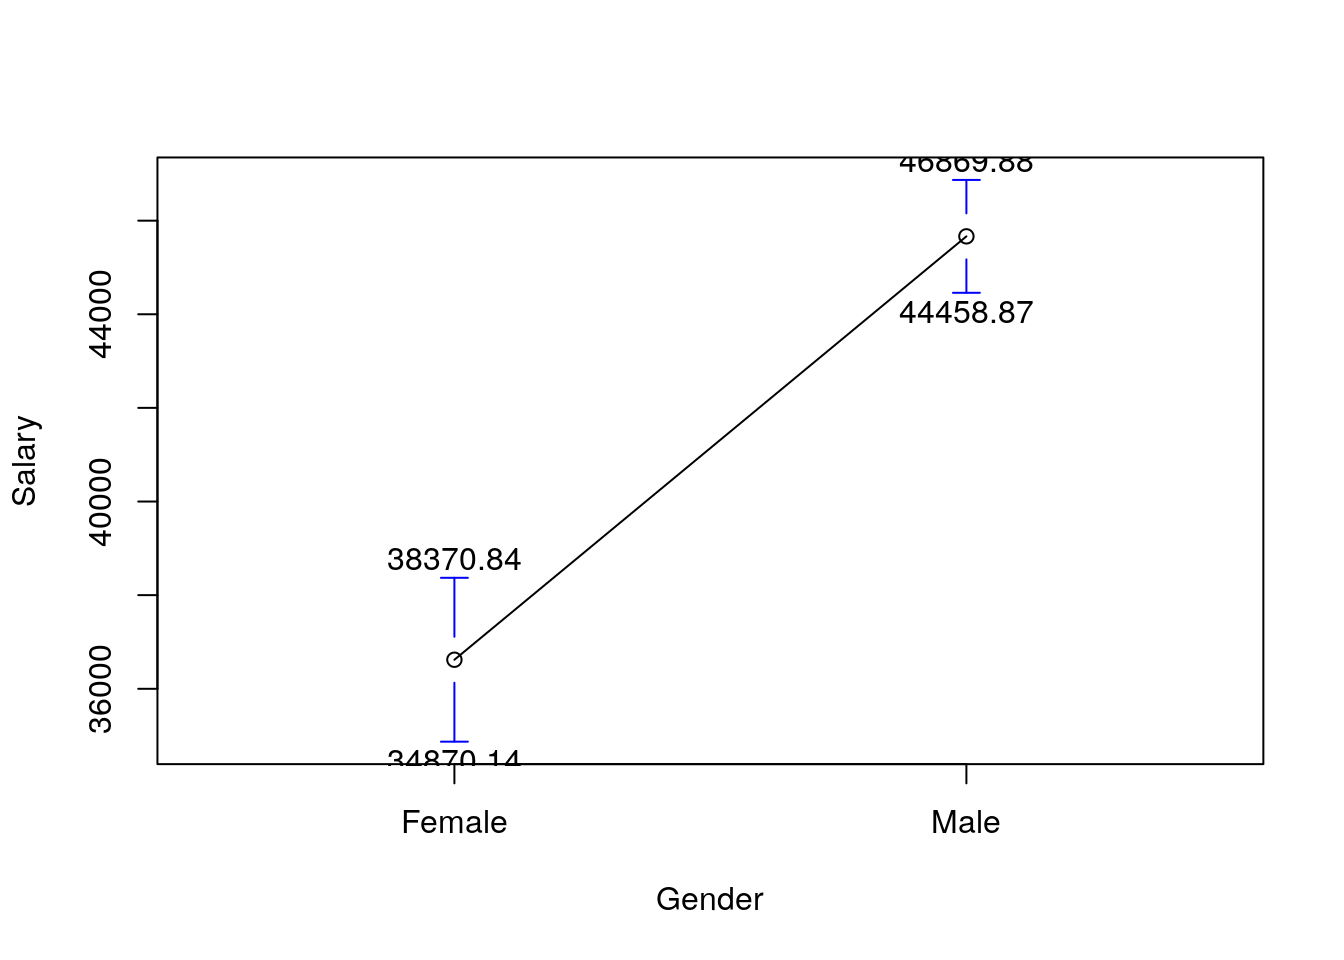
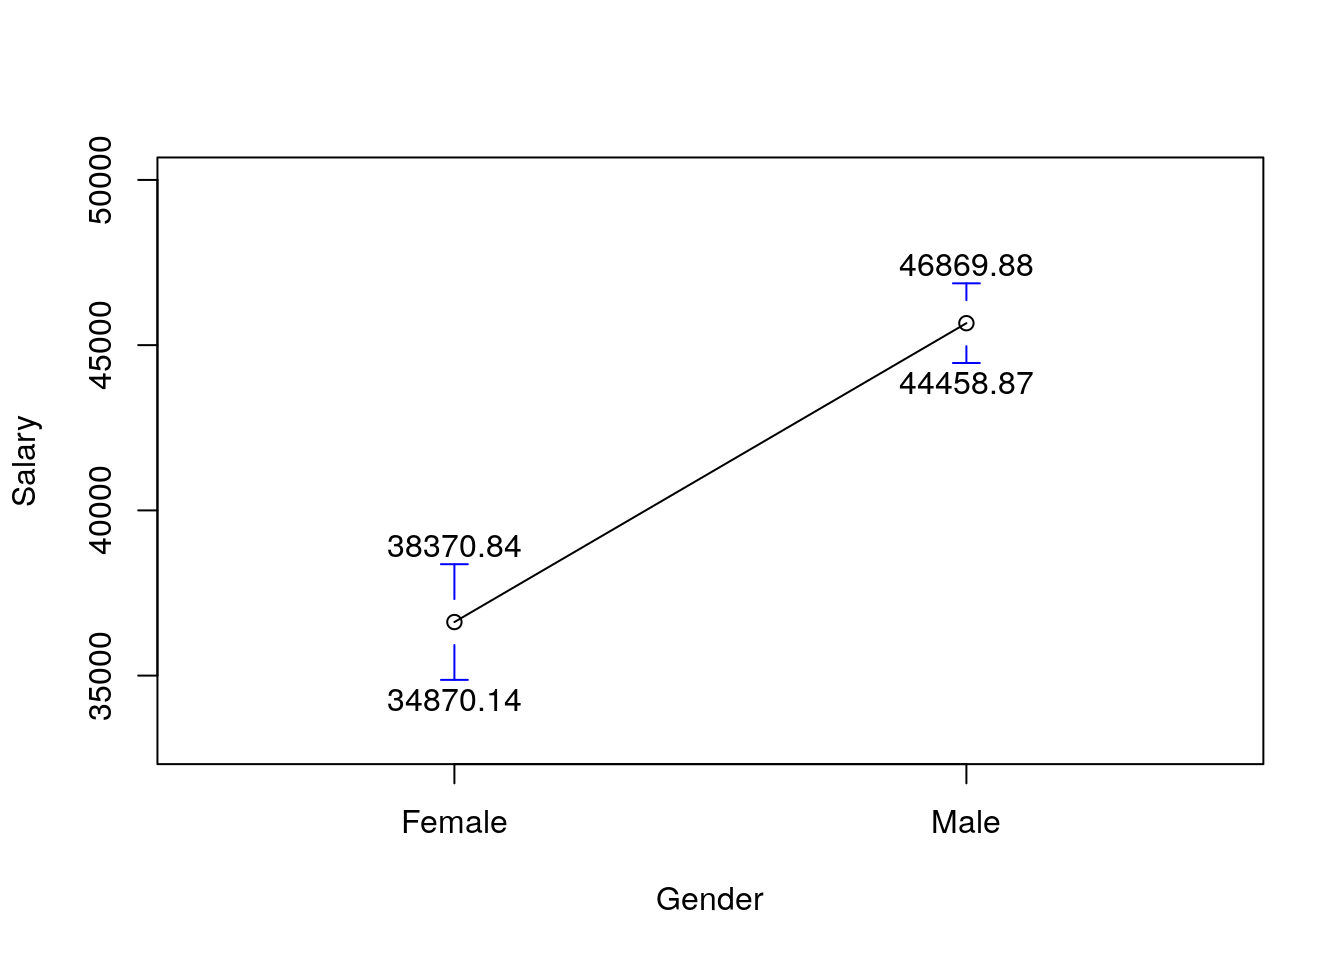
Fixed axes

diff --git a/public/post/black-boxes-a-gender-gap-example/index.html b/public/post/black-boxes-a-gender-gap-example/index.html
@@ -392,7 +392,7 @@ black.box.maker(mod1)</code></pre>
 <pre><code>## The following object is masked from &#39;package:stats&#39;:
 ## 
 ##     lowess</code></pre>
-<pre class="r"><code>plotmeans(Salary~Gender, data=OregonSalaries, ci.label = T, n.label = F)</code></pre>
+<pre class="r"><code>plotmeans(Salary~Gender, data=OregonSalaries, ci.label = T, n.label = F, ylim=c(33000,50000))</code></pre>
 <p><img src="/post/2018-02-22-black-boxes-a-gender-gap-example_files/figure-html/MeanPlot-1.png" width="672" /></p>
 </div>
 <div id="a-new-residual-sum-of-squares" class="section level2">

diff --git a/content/post/2018-02-22-black-boxes-a-gender-gap-example.html b/content/post/2018-02-22-black-boxes-a-gender-gap-example.html
@@ -65,7 +65,7 @@ black.box.maker(mod1)</code></pre>
 <pre><code>## The following object is masked from &#39;package:stats&#39;:
 ## 
 ##     lowess</code></pre>
-<pre class="r"><code>plotmeans(Salary~Gender, data=OregonSalaries, ci.label = T, n.label = F)</code></pre>
+<pre class="r"><code>plotmeans(Salary~Gender, data=OregonSalaries, ci.label = T, n.label = F, ylim=c(33000,50000))</code></pre>
 <p><img src="/post/2018-02-22-black-boxes-a-gender-gap-example_files/figure-html/MeanPlot-1.png" width="672" /></p>
 </div>
 <div id="a-new-residual-sum-of-squares" class="section level2">

diff --git a/public/post/panel-data-r-packages/index.html b/public/post/panel-data-r-packages/index.html
@@ -459,9 +459,9 @@ Sum.Table</code></pre>
       <h3>Related</h3>
       <ul>
         
-        <li><a href="/post/black-boxes-a-gender-gap-example/">Black Boxes: A Gender Gap Example</a></li>
-        
         <li><a href="/post/correlation-function/">Correlation Function</a></li>
+        
+        <li><a href="/post/black-boxes-a-gender-gap-example/">Black Boxes: A Gender Gap Example</a></li>
         
         <li><a href="/post/tidytext-is-neat/">tidytext is neat! White House Communications</a></li>
         
